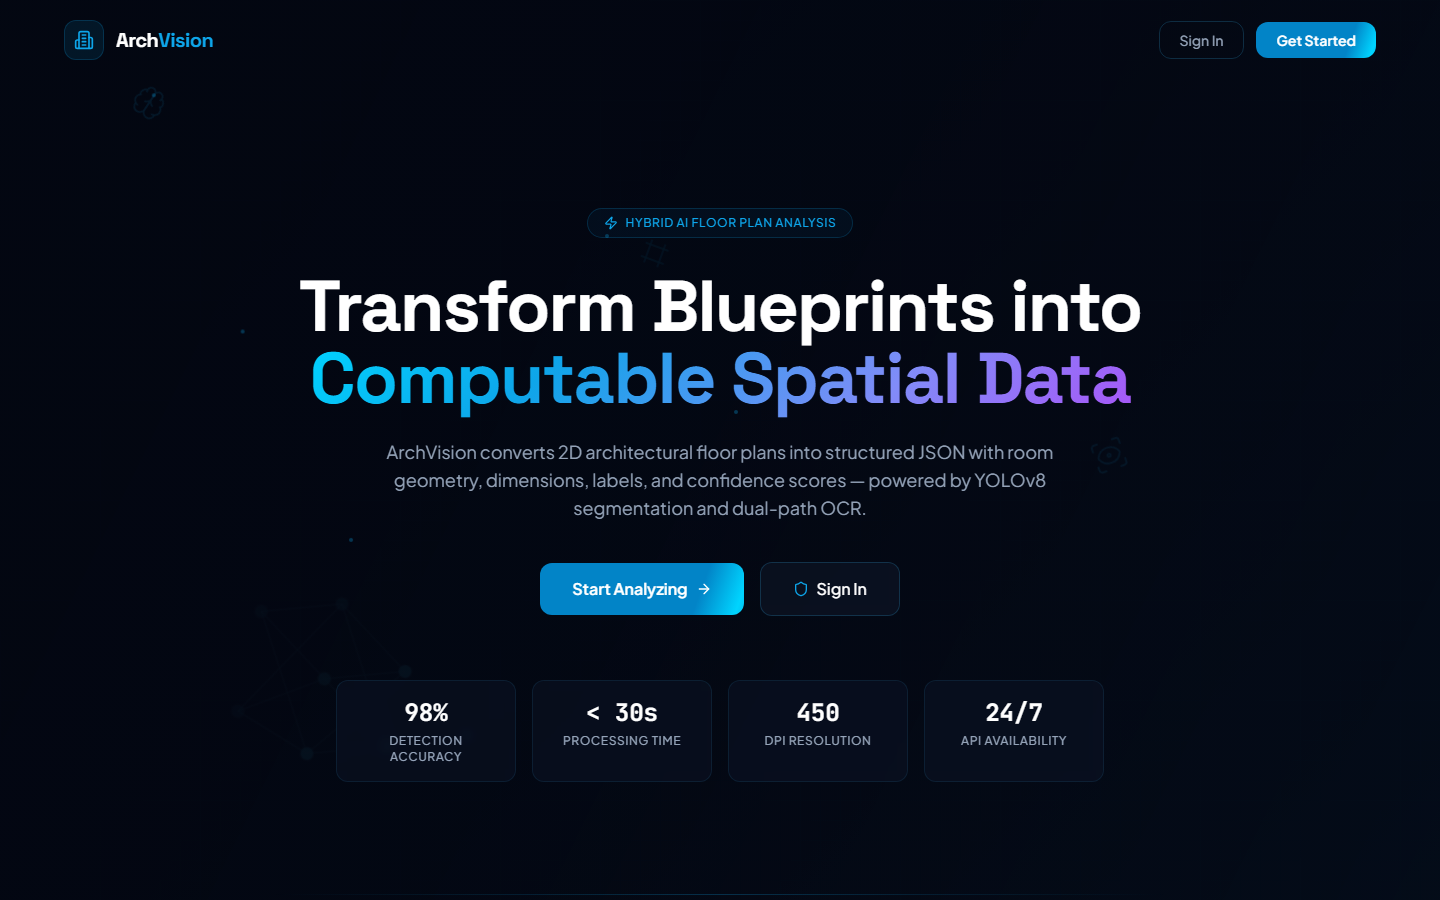
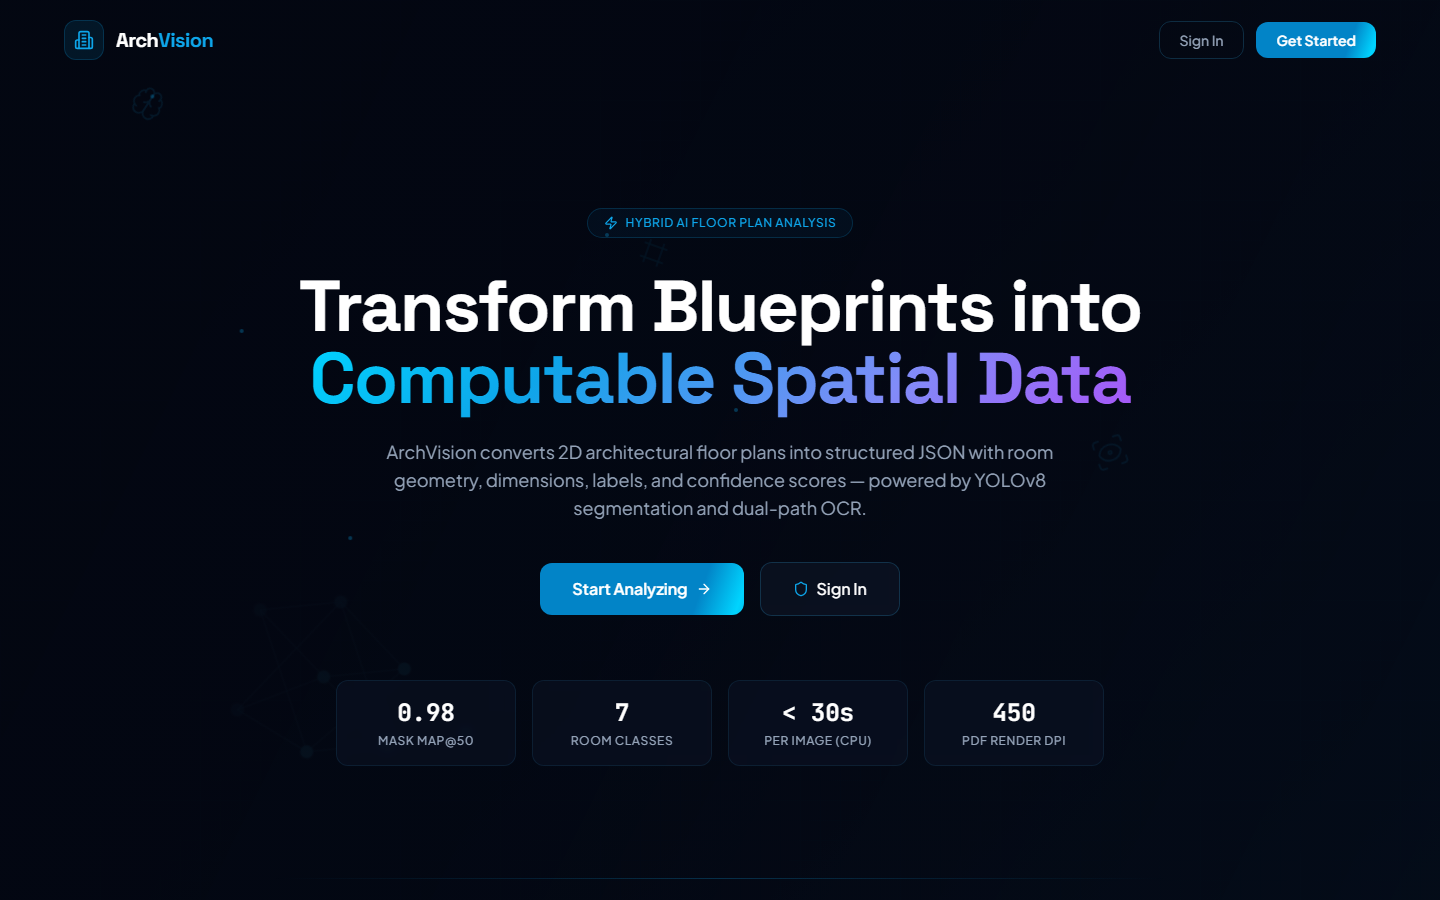
Replace placeholder metrics with measured values
The landing page claimed "98% detection accuracy" and "24/7 API
availability", and the telemetry bar showed a hard-coded latency and an
always-on status. Show the real mask mAP@50, room classes, per-image time
and PDF render DPI instead; the status pill now polls GET /api/health and
shows online/offline. Refresh README screenshots.

diff --git a/frontend/src/components/TelemetryBar.tsx b/frontend/src/components/TelemetryBar.tsx
@@ -1,19 +1,55 @@
+import { useEffect, useState } from "react";
+import api from "@/api/client";
+
 const MARQUEE_TEXT =
-  "ARCHVISION CORE v1.0.4 /// OpenCV KERNEL: ACTIVE /// EasyOCR: PyTorch Backend /// TOPOLOGICAL NOISE REJECTION: ON /// MODEL CONFIDENCE: HIGH /// LATENCY: 42ms /// WAITING FOR BLUEPRINT UPLOAD...";
+  "ARCHVISION /// SEGMENTATION: YOLOv8s-seg, 7 room classes, mask mAP@50 0.98 /// TEXT: PDF text layer first, EasyOCR / PaddleOCR fallback /// PDF RENDER: 450 DPI /// DIMENSIONS: feet-inch parsing to sq ft /// READY FOR BLUEPRINT UPLOAD...";
+
+const HEALTH_POLL_MS = 30_000;
+
+type BackendStatus = "checking" | "online" | "offline";
+
+const STATUS_STYLE: Record<BackendStatus, { color: string; label: string }> = {
+  checking: { color: "#94A3B8", label: "System: Checking" },
+  online: { color: "#00F0FF", label: "System: Online" },
+  offline: { color: "#F43F5E", label: "System: Offline" },
+};
 
 export default function TelemetryBar() {
+  const [status, setStatus] = useState<BackendStatus>("checking");
+
+  useEffect(() => {
+    let cancelled = false;
+    const check = () =>
+      api
+        .get("/health", { timeout: 5000 })
+        .then(() => !cancelled && setStatus("online"))
+        .catch(() => !cancelled && setStatus("offline"));
+    check();
+    const id = window.setInterval(check, HEALTH_POLL_MS);
+    return () => {
+      cancelled = true;
+      window.clearInterval(id);
+    };
+  }, []);
+
+  const { color, label } = STATUS_STYLE[status];
+
   return (
     <div className="telemetry-bar fixed top-0 left-0 right-0 z-50 flex h-8 items-center gap-4 border-b border-cyan-500/20 bg-slate-950/80 backdrop-blur-md px-4 overflow-hidden font-mono">
-      {/* LIVE Indicator Pill */}
-      <div className="live-pill flex-shrink-0 flex items-center gap-1.5 rounded-full border border-[#00F0FF]/30 bg-[#00F0FF]/10 px-3 py-0.5">
+      {/* Backend status pill, from GET /api/health */}
+      <div
+        className="live-pill flex-shrink-0 flex items-center gap-1.5 rounded-full border px-3 py-0.5"
+        style={{ borderColor: `${color}4D`, backgroundColor: `${color}1A` }}
+        title="Backend health check (GET /api/health)"
+      >
         <span className="live-dot relative flex h-2 w-2">
-          <span className="absolute inline-flex h-full w-full animate-ping rounded-full bg-[#00F0FF] opacity-60" />
-          <span className="relative inline-flex h-2 w-2 rounded-full bg-[#00F0FF]" />
+          {status === "online" && (
+            <span className="absolute inline-flex h-full w-full animate-ping rounded-full opacity-60" style={{ backgroundColor: color }} />
+          )}
+          <span className="relative inline-flex h-2 w-2 rounded-full" style={{ backgroundColor: color }} />
         </span>
-        <span
-          className="text-[10px] font-medium tracking-widest text-[#00F0FF] uppercase"
-        >
-          System: Online
+        <span className="text-[10px] font-medium tracking-widest uppercase" style={{ color }}>
+          {label}
         </span>
       </div>
 

diff --git a/frontend/src/pages/Landing.tsx b/frontend/src/pages/Landing.tsx
@@ -122,11 +122,13 @@ const features = [
   },
 ];
 
+// Measured values: mask mAP@50 from training/runs/floor_plan_rooms/results.csv,
+// per-image time on CPU, PDF render DPI from the extractor config.
 const stats = [
-  { value: "98%", label: "Detection Accuracy" },
-  { value: "< 30s", label: "Processing Time" },
-  { value: "450", label: "DPI Resolution" },
-  { value: "24/7", label: "API Availability" },
+  { value: "0.98", label: "Mask mAP@50" },
+  { value: "7", label: "Room Classes" },
+  { value: "< 30s", label: "Per Image (CPU)" },
+  { value: "450", label: "PDF Render DPI" },
 ];
 
 /* ================================================================ */
